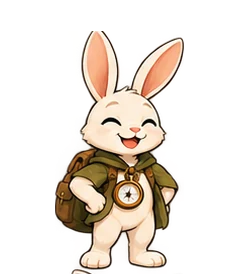
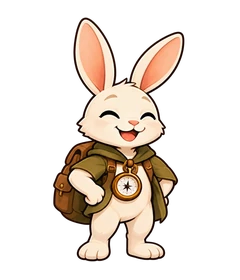
Repair happy Scout ear and remove stray foot mark on game select and setup

Changed region(s): [[0.2042, 0.0571, 0.7875, 1.0]]

diff --git a/src/TinyWorld.tsx b/src/TinyWorld.tsx
@@ -5,7 +5,7 @@ type View=ReturnType<Engine['view']>;
 export const friends=['Bunny','Kitten','Puppy','Bear cub','Duckling'];
 export type HeroExpression='idle'|'thinking'|'oops'|'happy'|'celebrate';
 const heroNames=['scout','builder','guide','ranger','rescuer'];
-export function Animal({kind=0,happy=false,expression}:{kind?:number;happy?:boolean;expression?:HeroExpression}){const k=((kind%5)+5)%5;const state=expression||(happy?'happy':'idle');return <img className={`animal-art animal-${state}`} src={`/art/tiny/${heroNames[k]}-${state}.webp`} alt={friends[k]} width="240" height="280" decoding="async"/>}
+export function Animal({kind=0,happy=false,expression}:{kind?:number;happy?:boolean;expression?:HeroExpression}){const k=((kind%5)+5)%5;const state=expression||(happy?'happy':'idle');return <img className={`animal-art animal-${state}`} src={`/art/tiny/${heroNames[k]}-${state}.webp${k===0&&state==='happy'?'?v=20261007':''}`} alt={friends[k]} width="240" height="280" decoding="async"/>}
 function WorldMotion({snow=false}:{snow?:boolean}){return <div className={`world-motion ${snow?'motion-snow':''}`} aria-hidden="true"><span className="drifting-cloud cloud-one"/><span className="drifting-cloud cloud-two"/><span className="water-glint glint-one"/><span className="water-glint glint-two"/><span className="floating-leaf leaf-one"/><span className="floating-leaf leaf-two"/></div>}
 function IllustratedMap({view,compact=false,adventureId}:{view?:View;compact?:boolean;adventureId?:string}){const pack=getAdventure(adventureId);const a=view?.adventure||{...pack,total:pack.rescues.length,completed:[]};const active=view&&view.phase!=='lobby'?view.round:-1;return <div className={`adventure-map illustrated-map ${compact?'compact-map':''}`}><div className="map-landscape"><img className="map-background" src={a.environment.mapAsset} alt={`${a.title}: a trail connects the river bridge, tall forest tree, cave, snowy mountains and flooded village.`} width="768" height="378" fetchPriority={compact?'auto':'high'}/><WorldMotion/><ol className="map-locations" aria-label="Rescue locations">{a.rescues.map((r,i)=>{const done=a.completed.some(x=>x.id===r.id);return <li key={r.id} className={`map-location ${active===i?'active-location':''} ${done?'location-home':''}`} style={{left:`${r.mapPosition[0]/9}%`,top:`${r.mapPosition[1]/5.4}%`}} aria-current={active===i?'step':undefined} aria-label={`Rescue ${i+1}: ${r.friend}${done?', home':active===i?', current rescue':''}`}><Animal kind={r.character} expression={done?'happy':'idle'}/><span className="location-number" aria-hidden="true">{done?'✓':i+1}</span><span className="location-label">{r.friend}</span></li>})}</ol></div><div className="map-caption"><span>{a.title} · {a.world}</span><span>{active<0?`${a.total} friends to help`:`Stop ${active+1} of ${a.total}`}</span></div>{view&&<AdventureProgress view={view}/>}</div>}
 export function ToolArt({tool}:{tool:string}){return <svg className="tool-art" viewBox="0 0 120 100" aria-hidden="true"><ellipse cx="60" cy="87" rx="40" ry="6" fill="#796039" opacity=".12"/><g stroke="#634939" strokeWidth="3" strokeLinecap="round" strokeLinejoin="round">{tool==='rope'?<><ellipse cx="57" cy="47" rx="30" ry="31" fill="none" stroke="#d89046" strokeWidth="16"/><ellipse cx="57" cy="47" rx="30" ry="31" fill="none" stroke="#ffe0a1" strokeWidth="3" strokeDasharray="2 7"/><path d="M83 52Q106 84 77 87" fill="none" stroke="#d89046" strokeWidth="12"/><path d="M83 52Q106 84 77 87" fill="none" stroke="#ffe0a1" strokeWidth="2" strokeDasharray="2 7"/></>:tool==='ladder'?<><path d="M36 13V85M82 13V85" stroke="#cf843b" strokeWidth="12"/><path d="M40 25H79M40 43H79M40 61H79M40 79H79" stroke="#e6ac58" strokeWidth="9"/><path d="M34 13V83M80 13V83" stroke="#ffcf82" strokeWidth="2"/></>:tool==='lamp'?<><path d="M64 21L99 6L109 52L72 45" fill="#fff0a7" stroke="none" opacity=".9"/><path d="M21 53L65 32L80 65L38 84Z" fill="#57bbbd"/><path d="M60 29L70 23L87 65L75 70Z" fill="#3f838e"/><ellipse cx="77" cy="44" rx="7" ry="21" fill="#ffe6a1" transform="rotate(-23 77 44)"/><path d="M36 61L51 54" stroke="#e3ffff" strokeWidth="7"/></>:tool==='blanket'?<><path d="M28 18Q60 10 89 22L88 81Q59 71 27 83Z" fill="#b498e2"/><path d="M44 17V80M69 18V77M27 38H88M27 61H88" stroke="#e3d1f9" strokeWidth="7"/><path d="M28 82V89M40 80V87M52 79V86M64 79V86M76 80V87M87 82V89" stroke="#936fc4"/></>:<><path d="M15 61L106 60L90 84H35Z" fill="#f19452"/><path d="M26 60L36 43H82L94 60" fill="#ffcb72"/><path d="M48 43V58H76V44" fill="#71c5bd"/><path d="M58 16V43M58 17L83 36H58" fill="#ffefb0"/><path d="M18 90Q30 96 42 90Q55 96 68 90Q80 96 100 89" fill="none" stroke="#5cbfdb"/></>}</g></svg>}
